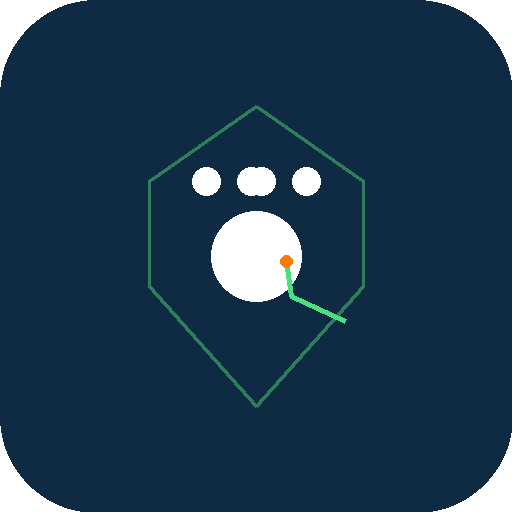
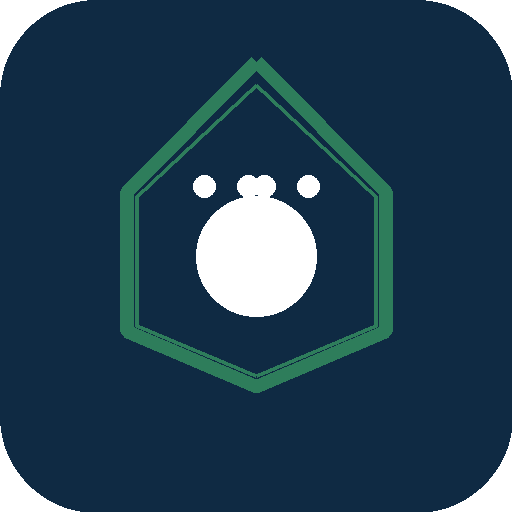
Перерисовать иконку: убрать график, укрупнить щит

Changed region(s): [[0.2188, 0.0938, 0.7812, 0.8125], [0.4688, 0.3125, 0.5312, 0.3438]]

diff --git a/scripts/generate_icons.py b/scripts/generate_icons.py
@@ -5,8 +5,6 @@ from PIL import Image, ImageDraw
 BG = "#0F2A43"
 SHIELD = "#2E7D5B"
 PAW = "#FFFFFF"
-GRAPH = "#4ADE80"
-DOT = "#FF7A00"
 
 
 def rounded_square(size, radius, fill):
@@ -17,36 +15,35 @@ def rounded_square(size, radius, fill):
 
 
 def draw_paw(draw, cx, cy, scale=1.0):
-    r = int(90 * scale)
+    r = int(120 * scale)
     draw.ellipse((cx - r, cy - r, cx + r, cy + r), fill=PAW)
-    toe_r = int(28 * scale)
-    for dx in (-100, -10, 10, 100):
+    toe_r = int(22 * scale)
+    for dx in (-104, -16, 16, 104):
         tx = cx + int(dx * scale)
-        ty = cy - int(150 * scale)
+        ty = cy - int(140 * scale)
         draw.ellipse((tx - toe_r, ty - toe_r, tx + toe_r, ty + toe_r), fill=PAW)
 
 
 def draw_shield(draw, cx, cy, scale=1.0):
-    w = int(215 * scale)
-    h = int(300 * scale)
-    pts = [
-        (cx, cy - h),
-        (cx + w, cy - h * 0.5),
-        (cx + w, cy + h * 0.2),
-        (cx, cy + h),
-        (cx - w, cy + h * 0.2),
-        (cx - w, cy - h * 0.5),
+    """Большой щит с двойным контуром."""
+    outer = [
+        (cx, cy - int(390 * scale)),
+        (cx + int(258 * scale), cy - int(130 * scale)),
+        (cx + int(258 * scale), cy + int(150 * scale)),
+        (cx, cy + int(260 * scale)),
+        (cx - int(258 * scale), cy + int(150 * scale)),
+        (cx - int(258 * scale), cy - int(130 * scale)),
     ]
-    draw.line(pts + [pts[0]], fill=SHIELD, width=int(6 * scale), joint="curve")
-
-
-def draw_graph(draw, cx, cy, scale=1.0):
-    x1, y1 = cx + int(178 * scale), cy + int(130 * scale)
-    x2, y2 = cx + int(70 * scale), cy + int(80 * scale)
-    x3, y3 = cx + int(60 * scale), cy + int(10 * scale)
-    draw.line([(x1, y1), (x2, y2), (x3, y3)], fill=GRAPH, width=int(10 * scale), joint="curve")
-    draw.ellipse((x3 - int(12 * scale), y3 - int(12 * scale),
-                  x3 + int(12 * scale), y3 + int(12 * scale)), fill=DOT)
+    inner = [
+        (cx, cy - int(342 * scale)),
+        (cx + int(238 * scale), cy - int(120 * scale)),
+        (cx + int(238 * scale), cy + int(140 * scale)),
+        (cx, cy + int(240 * scale)),
+        (cx - int(238 * scale), cy + int(140 * scale)),
+        (cx - int(238 * scale), cy - int(120 * scale)),
+    ]
+    draw.line(outer + [outer[0]], fill=SHIELD, width=int(28 * scale), joint="curve")
+    draw.line(inner + [inner[0]], fill=SHIELD, width=int(8 * scale), joint="curve")
 
 
 def draw_full(size):
@@ -57,7 +54,6 @@ def draw_full(size):
     scale = size / 1024.0
     draw_shield(draw, cx, cy, scale)
     draw_paw(draw, cx, cy, scale)
-    draw_graph(draw, cx, cy, scale)
     return img
 
 
@@ -79,7 +75,6 @@ def draw_maskable(size):
     scale = size / 1024.0
     draw_shield(draw, cx, cy, scale * 0.85)
     draw_paw(draw, cx, cy, scale * 0.85)
-    draw_graph(draw, cx, cy, scale * 0.85)
     return img
 
 
